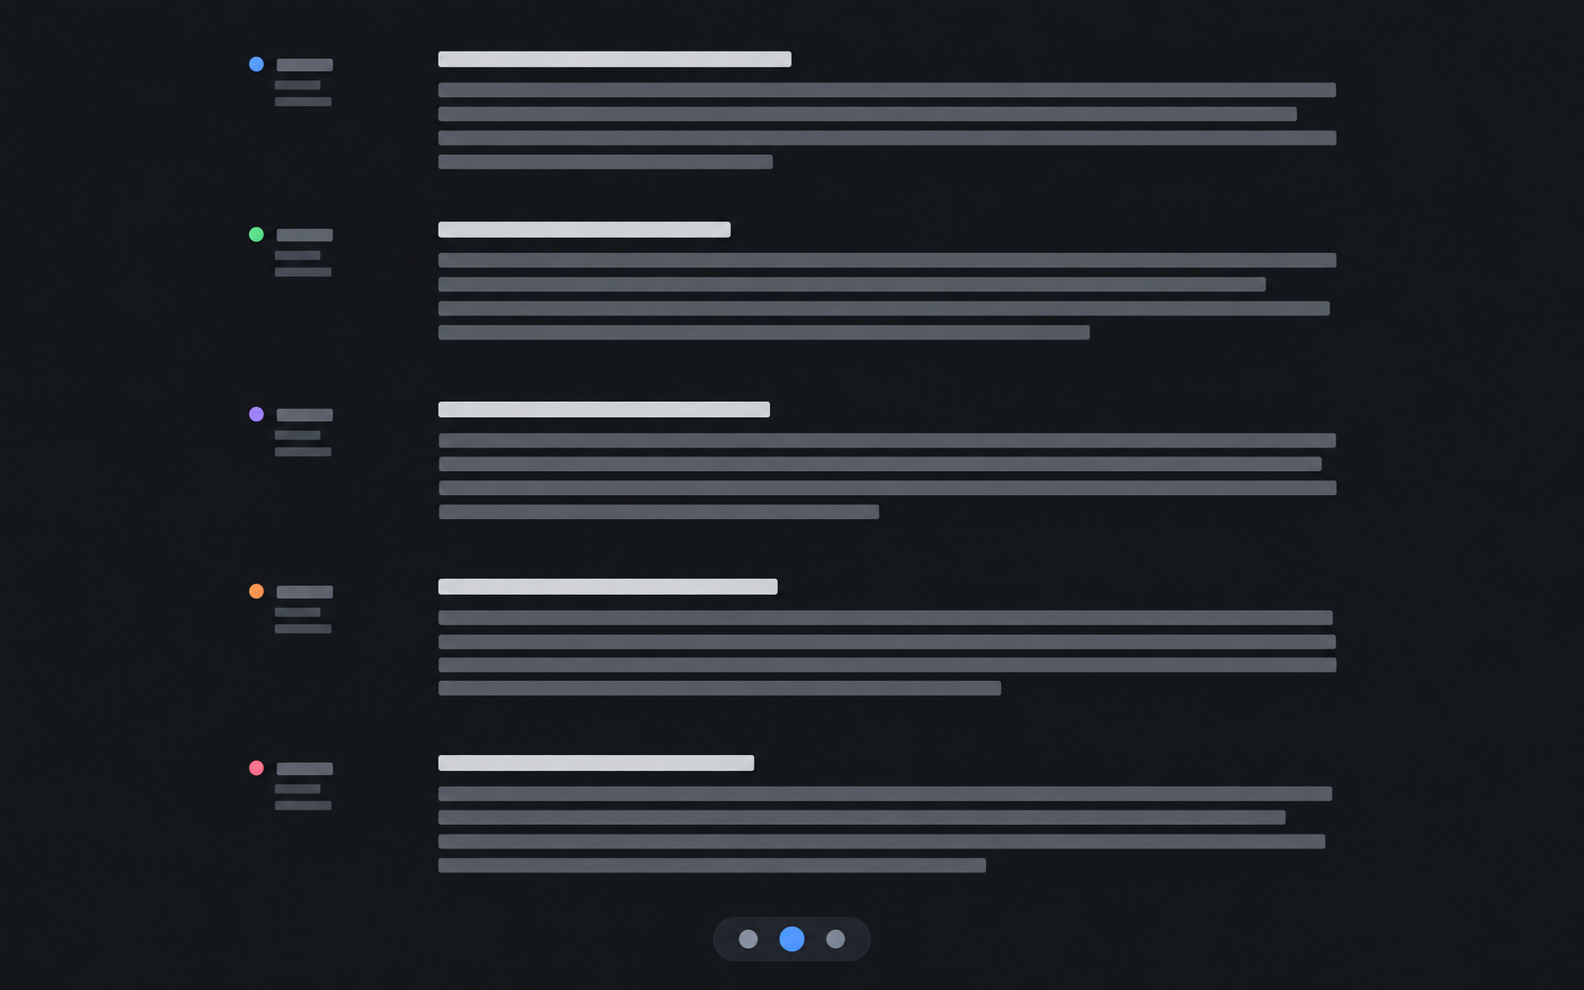
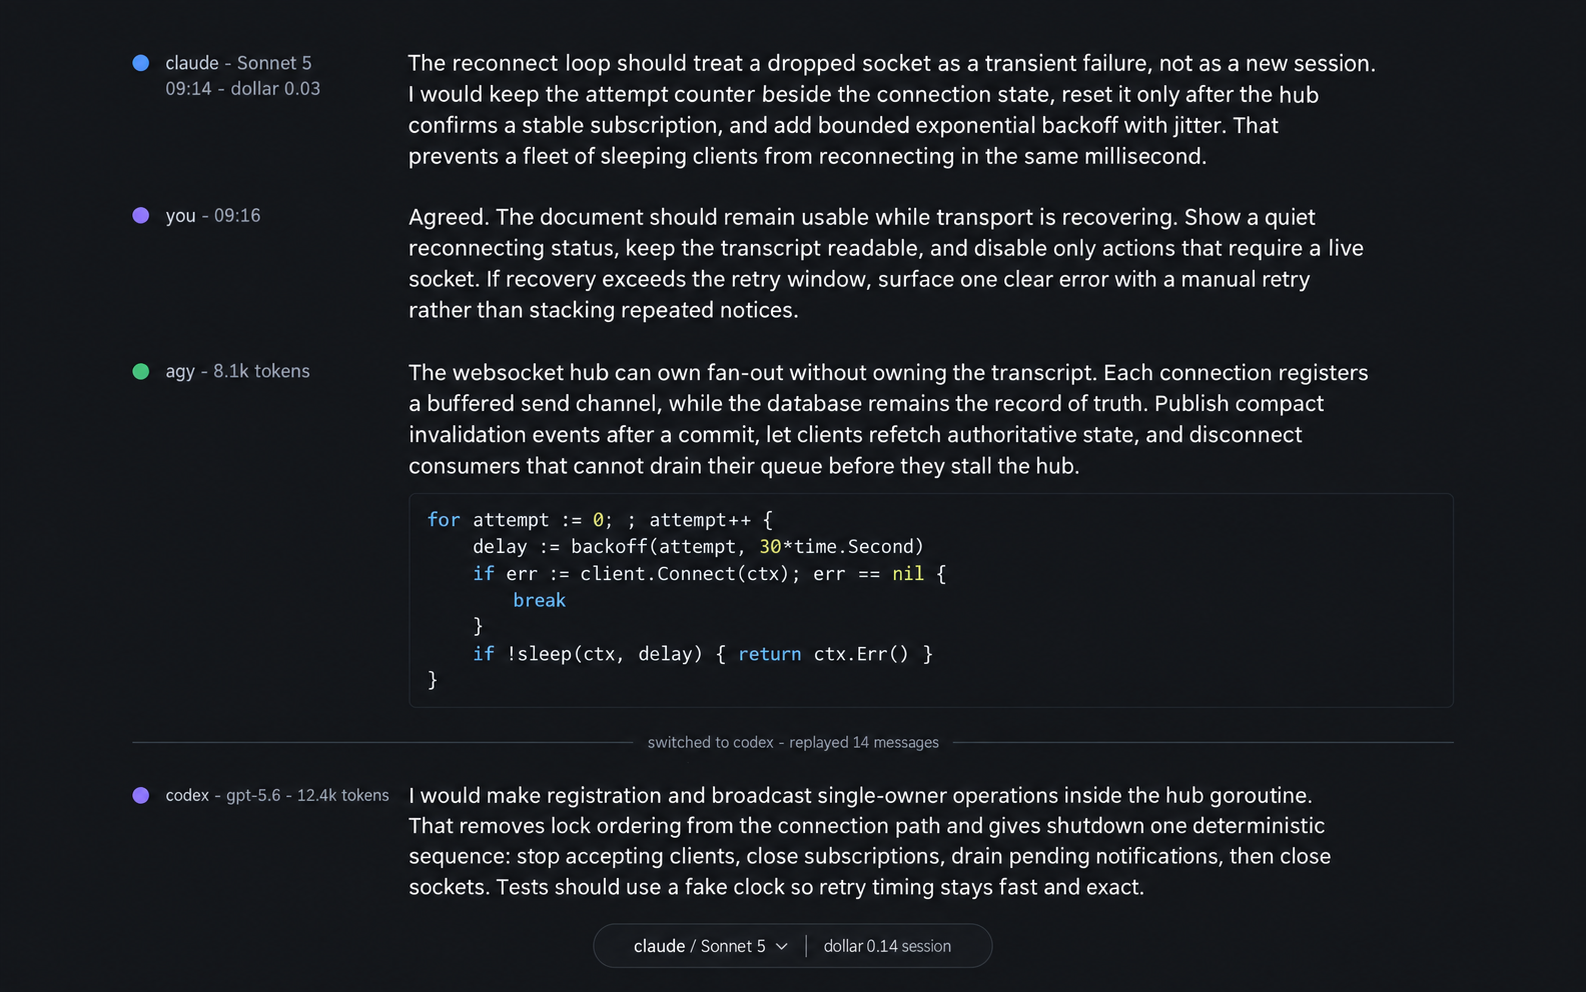
design(chat): regenerate shots with real content, reverse the greeking rule
The owner rejected the first round on sight: "I dont need empty image
with boxes and charts, I want more real and acutal image." He was right.
The skill's greek-everything rule optimised for avoiding garbled AI
pseudo-text and traded away the only thing that makes a shot useful —
looking like a real screen. A wireframe of grey bars answers "where do
the blocks go", which is the question he can already answer himself.

Rule reversed in the skill: write the real content into the prompt —
actual names, labels, numbers, message text — pulled from the spec and
Capabilities.md so a mockup never shows a value the backend cannot
produce. Prompts now run 200-300 words region by region; the short ones
return stock designs. Imperfect generated text costs a glance, an
abstract mockup costs the whole round.

All four directions regenerated. Two prompt bugs of mine recorded in the
round README: "dollar" spelled out instead of an escaped $, and C's
prompt omitting agy from the provider roster.

diff --git a/.claude/skills/design-shots/SKILL.md b/.claude/skills/design-shots/SKILL.md
@@ -52,6 +52,7 @@ re-litigating a settled question, and the whole ordering falls apart.
 | Layout and composition | Any interaction |
 | Information hierarchy — what dominates | Real component behaviour |
 | Density: airy or packed | Real data: long names, empty fields, 200 rows |
+| Whether the information shown is the *right* information | Whether it stays right at real volume |
 | Mood, weight, temperature | The four states |
 | Whether an idea is worth coding | Whether it actually works |
 
@@ -102,12 +103,27 @@ two directions. Say so and generate two — a real two beats a padded three.
 
 ### 2. Prompts — the two things that decide whether this round is useful
 
-**Greek the text deliberately.** Ask for placeholder bars instead of words:
-*"no readable text, use neutral placeholder bars for all labels and content"*.
-Image models write garbled pseudo-words, and garbled text is the single loudest
-thing in a mockup — it drags every reaction toward "the text looks wrong" and
-away from the layout, which is the only thing you are actually asking about. It
-also makes the directions comparable, because none of them win on copywriting.
+**Write the real content into the prompt.** Real product names, real labels, real
+numbers, real message text. `claude 62% resets 4:12`, not "a status indicator".
+`gemini — no account signed in`, not "a disabled state". A message that actually
+says something, not a bubble.
+
+This was learned by getting it wrong. The first version of this skill said to
+greek everything — ask for neutral placeholder bars, on the theory that garbled
+AI pseudo-text would hijack every reaction. It does avoid that, and the images
+were still useless: **the owner cannot judge a screen made of grey rectangles.**
+His words, on the first round that shipped: *"I dont need empty image with boxes
+and charts, I want more real and acutal image."*
+
+A wireframe of bars answers "where do the blocks go", which is the least
+interesting question and the one you can already answer in your head. A realistic
+screen answers whether the thing is worth building — whether four provider chips
+across the top is reassuring or oppressive, whether a cost figure per message
+reads as useful or nagging. Those only appear with real content in place.
+
+Imperfect text is an acceptable price. A slightly wrong word in a filler sentence
+costs a glance; an abstract mockup costs the whole round. Filler prose is fine —
+say so in the prompt — as long as it reads as real sentences rather than bars.
 
 **Name the product-specific parts explicitly, or you get stock.** Asked for "a
 chat app UI", the generator returns Telegram — verified, that is exactly what
@@ -117,20 +133,40 @@ out what is unusual about *this* screen: the provider being switched, the limit
 running out, the two agents in one thread. If nothing in the prompt is specific
 to the product, the image will not be either, and the round is wasted.
 
-A workable prompt shape:
+A prompt that works is long — 200–300 words, region by region. Short prompts get
+stock designs; this is where the specificity actually goes in:
 
 ```
-A UI mockup of <the specific screen, including its unusual elements>.
-Layout: <the structural idea that makes this direction different>.
-Style: flat vector UI mockup, <light|dark> theme, <density>.
-No readable text — neutral placeholder bars for all labels and content.
-No logos, no watermark, no browser chrome, no phone frame.
-<viewport: desktop 16:10 | mobile portrait>
+A realistic high-fidelity screenshot of <app name>, a <what it is>.
+
+Layout: <region 1 — its position, and the REAL text in it: names,
+labels, values, timestamps>.
+<region 2 — same treatment>.
+<region 3 — same treatment, including the one state that makes this
+direction different from the others>.
+
+Style: realistic polished product screenshot of a real shipping app,
+<light|dark> theme, crisp legible <sans-serif|monospace> UI text, the
+quality of a developer tool marketing site screenshot. Render ACTUAL
+READABLE TEXT for every label, name, number and status. Body text may
+be generic filler but must read as real sentences. Absolutely no grey
+placeholder bars, no wireframe rectangles standing in for text.
+No logos, no watermark, no browser chrome. <viewport>
 ```
+
+Walk the screen region by region and give each one its actual content. If you
+cannot say what a region says, you do not yet know what the region is for — and
+that is worth discovering here rather than in the prototype.
 
 Keep style, theme, and viewport **identical across directions**. The only thing
 varying is the idea. If one is dark and one is light, the owner is choosing a
 theme, not a direction.
+
+**Pull the real content from the spec and `Capabilities.md`, not from
+imagination.** Provider names, the fields a provider actually emits, the states
+that actually exist. An image showing a cost figure for a provider that reports
+none is the undeliverable-design failure in miniature, and it is easier to commit
+here than anywhere else because nobody reads a mockup sceptically.
 
 ### 3. Generate
 

diff --git a/design-system/shots/2026-09-09-chat-surface/README.md b/design-system/shots/2026-09-09-chat-surface/README.md
@@ -32,8 +32,12 @@ carry:
 
 Recorded so the next round's prompts start better:
 
-- **Greeked placeholder bars worked.** No garbled pseudo-text in any of the four, and reactions
-  stay on layout rather than copy.
+- **Greeked placeholder bars were wrong, and this round is why.** The first pass asked for neutral
+  bars instead of text, to avoid garbled AI pseudo-words. It avoided them and produced four images
+  the owner could not judge: *"I dont need empty image with boxes and charts, I want more real and
+  acutal image."* Regenerated with real product names, real numbers, real message text and filler
+  prose that reads as sentences. The skill's rule is reversed accordingly — imperfect text costs a
+  glance, an abstract mockup costs the round.
 - **Naming the product-specific elements works, and this round proved it.** The same generator, on
   the same machine, returned a generic Telegram clone when asked for "a chat app UI" during the
   capability test, and returned A — headroom strip, per-message agent badges, a three-dot provider
@@ -41,13 +45,14 @@ Recorded so the next round's prompts start better:
   Keep doing this; it is the difference between a useful round and a wasted one.
 - **A took roughly three times as long as B/C/D** because it fell back to a slower generation path.
   Budget for one straggler in a parallel round rather than treating it as a failure.
-- **D over-read "editorial, airy"** and produced far more whitespace than a working tool wants, and
-  five agent colours where the product has three. The direction is legible; the density is the
-  generator's interpretation, not a proposal.
-- **B is austere to the point of abstraction** — it reads the density idea correctly but shows
-  almost no structure beyond the rules and the divider.
-- Judge these on composition, hierarchy, and density only. None of them show interaction, real
-  data, or the four states — the prototype settles all of that.
+- **Two prompt bugs, mine not the tool's.** (1) I wrote the word `dollar` instead of `$` to dodge
+  shell escaping, and A, B and D rendered it literally as "dollar 0.03"; C alone interpreted it.
+  Escape the `$` properly instead. (2) C's prompt enumerated only three provider cards — claude,
+  codex, gemini — so `agy` is missing from that direction entirely. Take the roster from
+  `blueprint.yaml`, not from memory.
+- **Judge these on composition, hierarchy, density and whether the information shown is the right
+  information.** They still do not show interaction, behaviour at real volume, or the four states —
+  the prototype settles all of that.
 
 ## What this told us about taste
 
